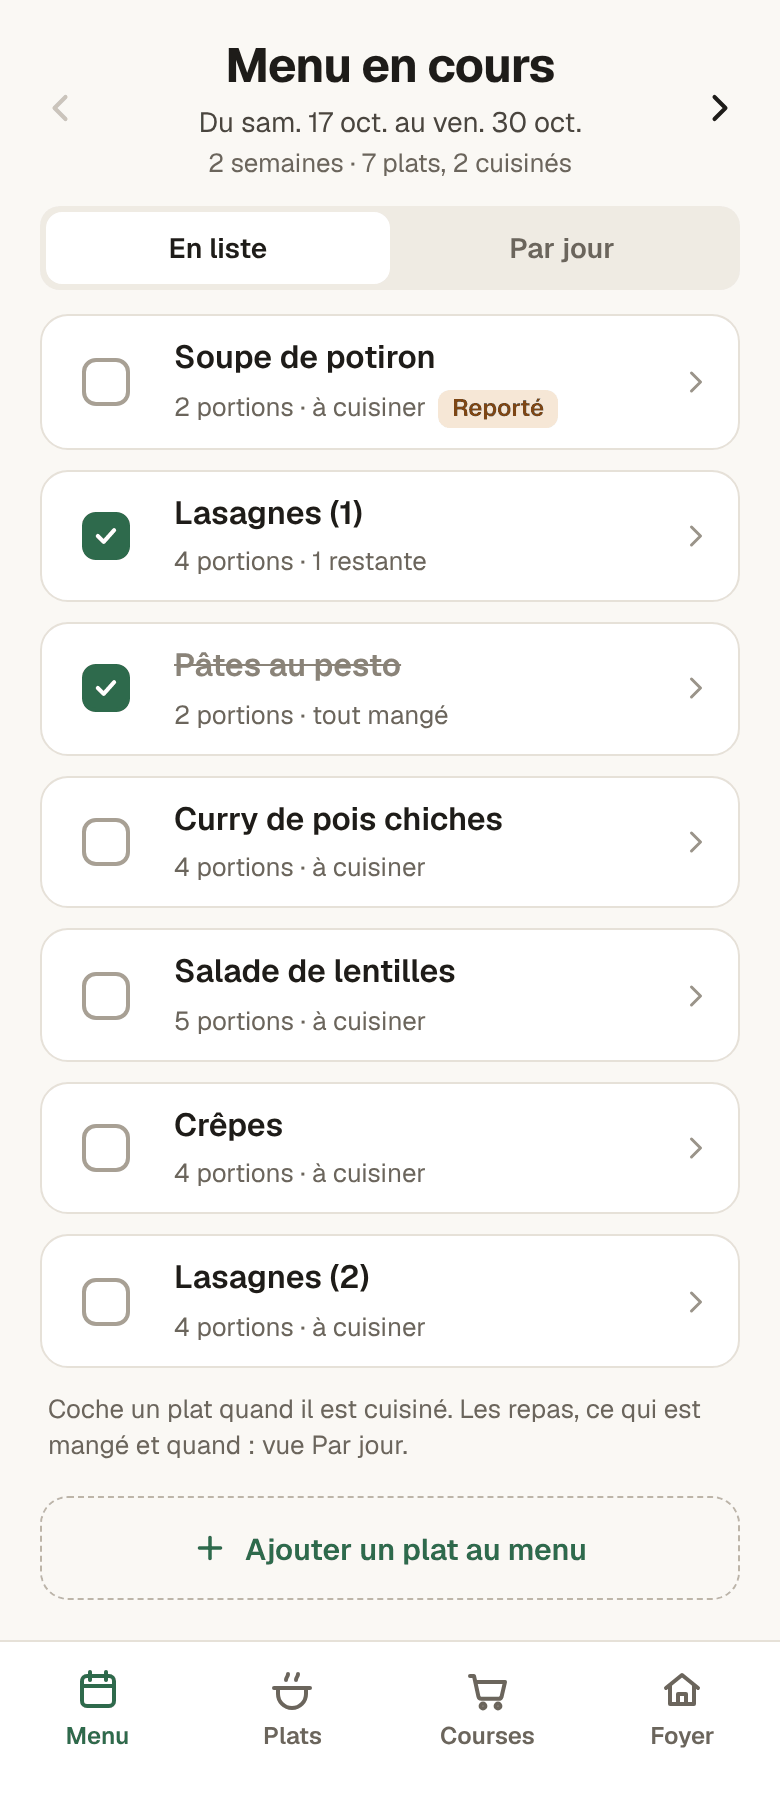
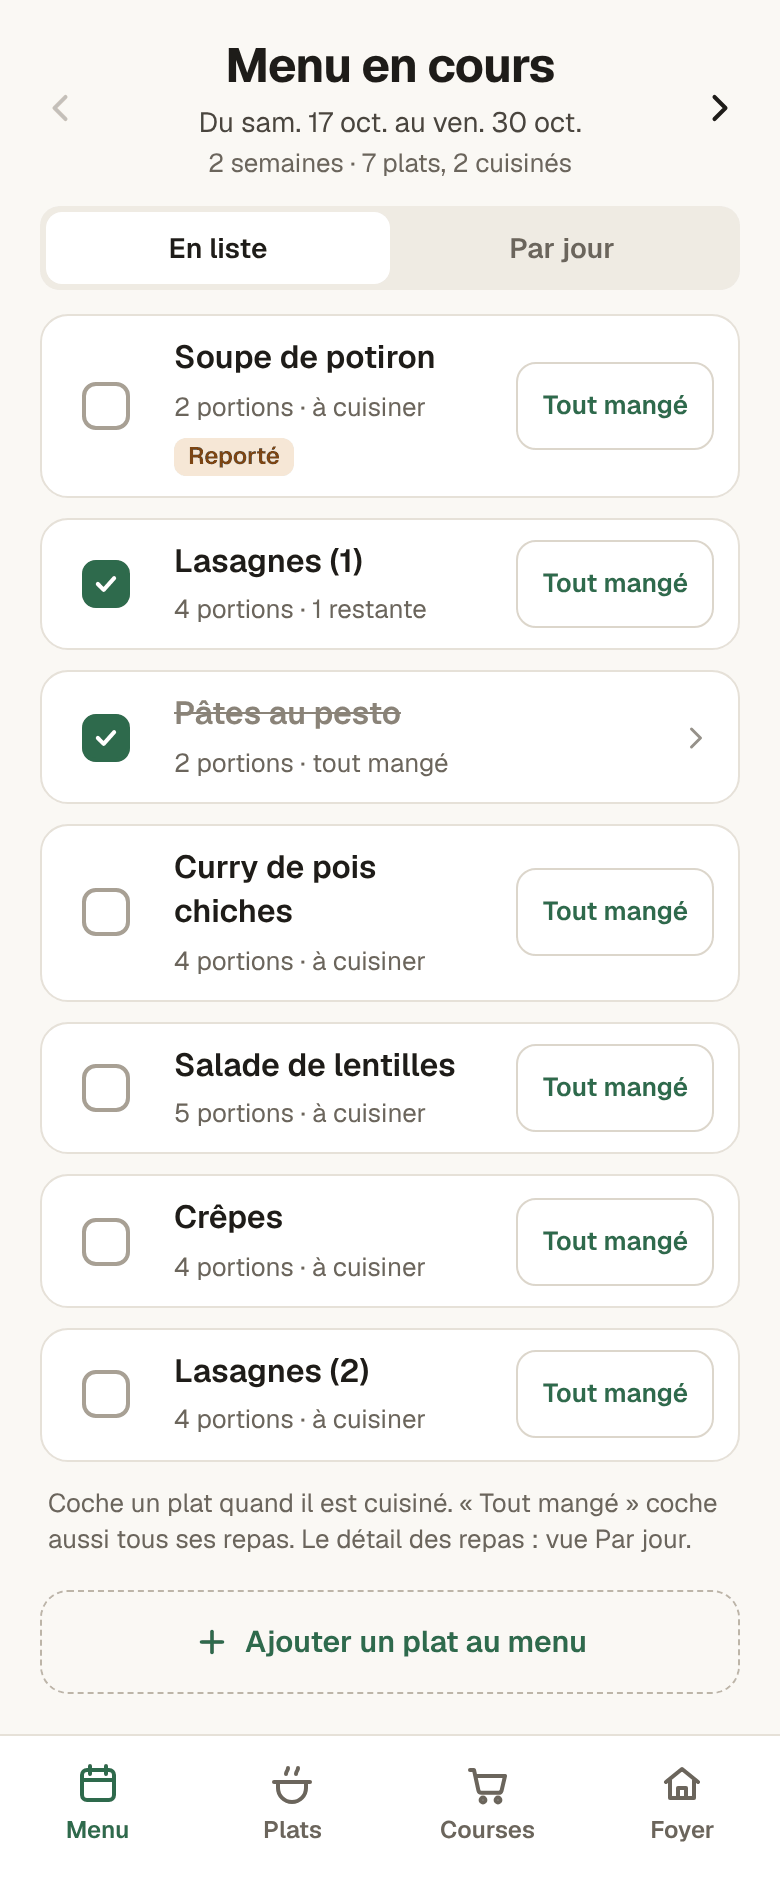
docs: add an eat-all button to the menu list
Claude-Session: https://claude.ai/code/session_01JKdr356e4cDrANtMrezvMz

diff --git a/docs/maquette/maquette.dc.html b/docs/maquette/maquette.dc.html
@@ -65,10 +65,15 @@ input,select,textarea{font:inherit;color:#1E1C19}
 </sc-if>
 </span>
 </button>
+<sc-if value="{{item.canEatAll}}" hint-placeholder-val="{{true}}">
+<button type="button" onClick="{{item.eatAll}}" aria-label="{{item.eatAllLabel}}" style="flex: none; min-height: 44px; padding: 0 12px; border-radius: 10px; border: 1.5px solid #DCD6CB; font-size: 13px; font-weight: 600; color: #2E6A4C; text-align: center">Tout mangé</button>
+</sc-if>
+<sc-if value="{{item.noEatAll}}" hint-placeholder-val="{{false}}">
 <svg width="18" height="18" viewBox="0 0 24 24" fill="none" stroke="#9A9387" stroke-width="2" stroke-linecap="round" stroke-linejoin="round" aria-hidden="true"><path d="M9 6l6 6-6 6"></path></svg>
+</sc-if>
 </div>
 </sc-for>
-<p style="margin: 2px 4px 0; font-size: 13px; color: #6B655C">Coche un plat quand il est cuisiné. Les repas, ce qui est mangé et quand : vue Par jour.</p>
+<p style="margin: 2px 4px 0; font-size: 13px; color: #6B655C">Coche un plat quand il est cuisiné. « Tout mangé » coche aussi tous ses repas. Le détail des repas : vue Par jour.</p>
 </div>
 </sc-if>
 <sc-if value="{{isDayView}}" hint-placeholder-val="{{false}}">
@@ -1066,6 +1071,12 @@ class Component extends DCLogic {
         toggle: () => this.setState({
           batches: this.state.batches.map((b) => b.id === bt.id ? Object.assign({}, b, { cooked: cooked ? null : todayOff(bt), cookedFrom: null }) : b),
           meals: cooked ? this.state.meals.map((x) => x.b === bt.id ? Object.assign({}, x, { eaten: false }) : x) : this.state.meals
+        }),
+        // « Tout mangé » : cuisiné et tous les repas mangés d'un coup (on cuisine et on mange dans la foulée).
+        canEatAll: !done, noEatAll: done, eatAllLabel: 'Tout mangé : ' + p.name,
+        eatAll: () => this.setState({
+          batches: this.state.batches.map((b) => b.id === bt.id && b.cooked == null ? Object.assign({}, b, { cooked: todayOff(bt) }) : b),
+          meals: this.state.meals.map((x) => x.b === bt.id ? Object.assign({}, x, { eaten: true }) : x)
         }),
         open: go({ screen: 'plat', platId: bt.plat, platBack: 'menu' })
       };

diff --git a/docs/maquette/README.md b/docs/maquette/README.md
@@ -21,7 +21,7 @@ Si la maquette change sur claude.ai, il faut refaire la copie et les captures da
 
 | Capture | Écran | Tickets |
 |---|---|---|
-| [01-menu-liste](ecrans/01-menu-liste.png) | Accueil : menu en cours, vue « En liste » : une carte par plat ajouté, case « cuisiné », portions restantes, badges « Reporté » et « Reste » | #28, #30 |
+| [01-menu-liste](ecrans/01-menu-liste.png) | Accueil : menu en cours, vue « En liste » : une carte par plat ajouté, case « cuisiné », bouton « Tout mangé », portions restantes, badges « Reporté » et « Reste » | #28, #30 |
 | [02-menu-par-jour](ecrans/02-menu-par-jour.png) | Accueil, vue « Par jour » : les repas, case « mangé », badge « À cuisiner », « À placer » puis tous les jours du menu | #29 |
 | [03-menu-deplacer-repas](ecrans/03-menu-deplacer-repas.png) | Vue « Par jour » après la poignée ⋮⋮ : boutons « Placer ici » | #29 |
 | [04-preparer-menu-suivant](ecrans/04-preparer-menu-suivant.png) | Préparer le menu suivant : durée, repas à reporter en deux groupes (« Pas cuisinés », « Restes ») | #30 |
